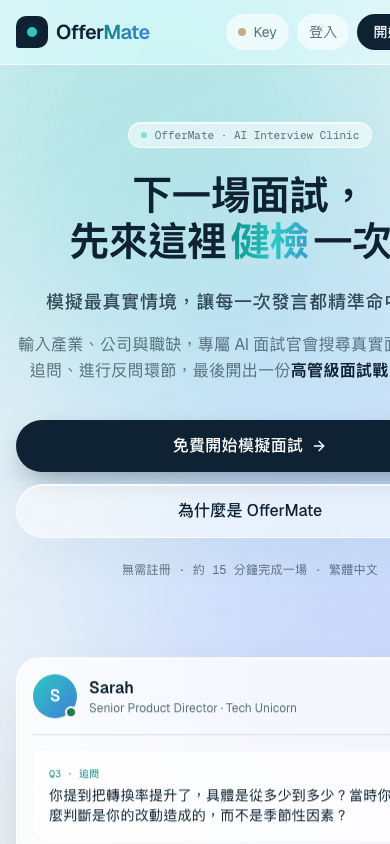
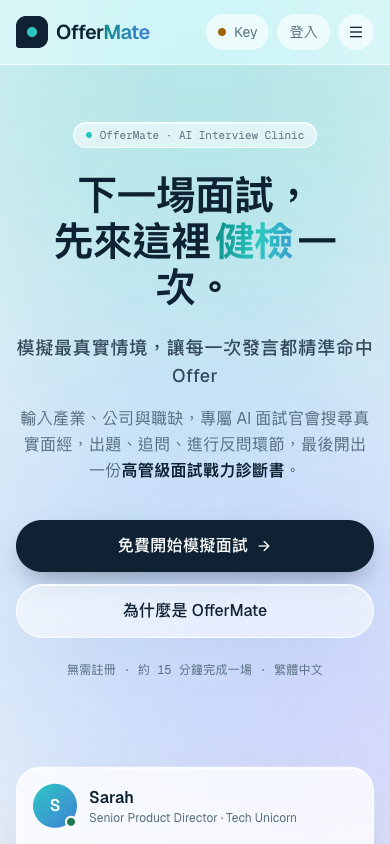
Retake mobile screenshots and fix the OfferMate mobile caption

diff --git a/lib/projects.ts b/lib/projects.ts
@@ -152,7 +152,7 @@ const allProjects: Project[] = [
       {
         src: "/shots/offermate-mobile.png",
         title: "手機版",
-        caption: "手機版隱藏設定頁的說明清單，讓表單更早出現在畫面上。",
+        caption: "手機版頁首只留金鑰、登入與選單，「開始模擬面試」收進選單；首頁的大按鈕直接帶到面試設定。",
         device: "mobile",
       },
     ],
